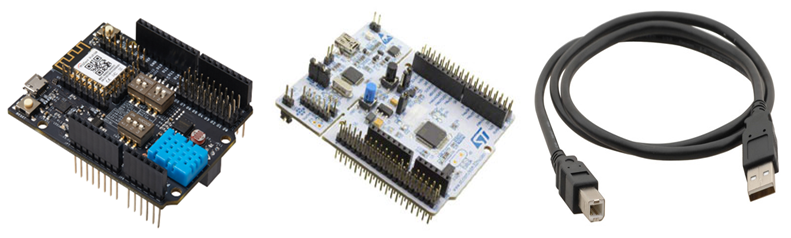
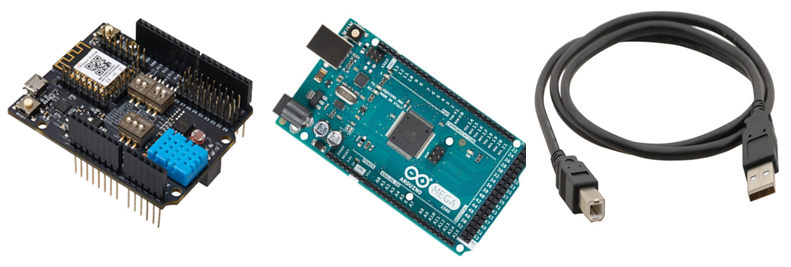
Modify .md file and image file

diff --git a/docs/IoT_device/Connectivities/Wi-Fi/arduino_mqtt_atcmd_wizfi360.md b/docs/IoT_device/Connectivities/Wi-Fi/arduino_mqtt_atcmd_wizfi360.md
@@ -154,9 +154,9 @@ int alive_time = xx;    // range : 30 ~ 300
 
 Terminal Program으로 WizFi360에서 Azure IoT Hub로 전송하는 Data, Blob Storage에서 WizFi360으로부터 수신한 Data를 확인 할 수 있습니다.
 
-![][Link-Result_Execute_Project_Through_Mbed_Studio_1]
+![][Link-Result_Execute_Project_Through_Arduino_Ide_1]
 
-![][Link-Result_Execute_Project_Through_Mbed_Studio_2]
+![][Link-Result_Execute_Project_Through_Arduino_Ide_2]
 
 
 
